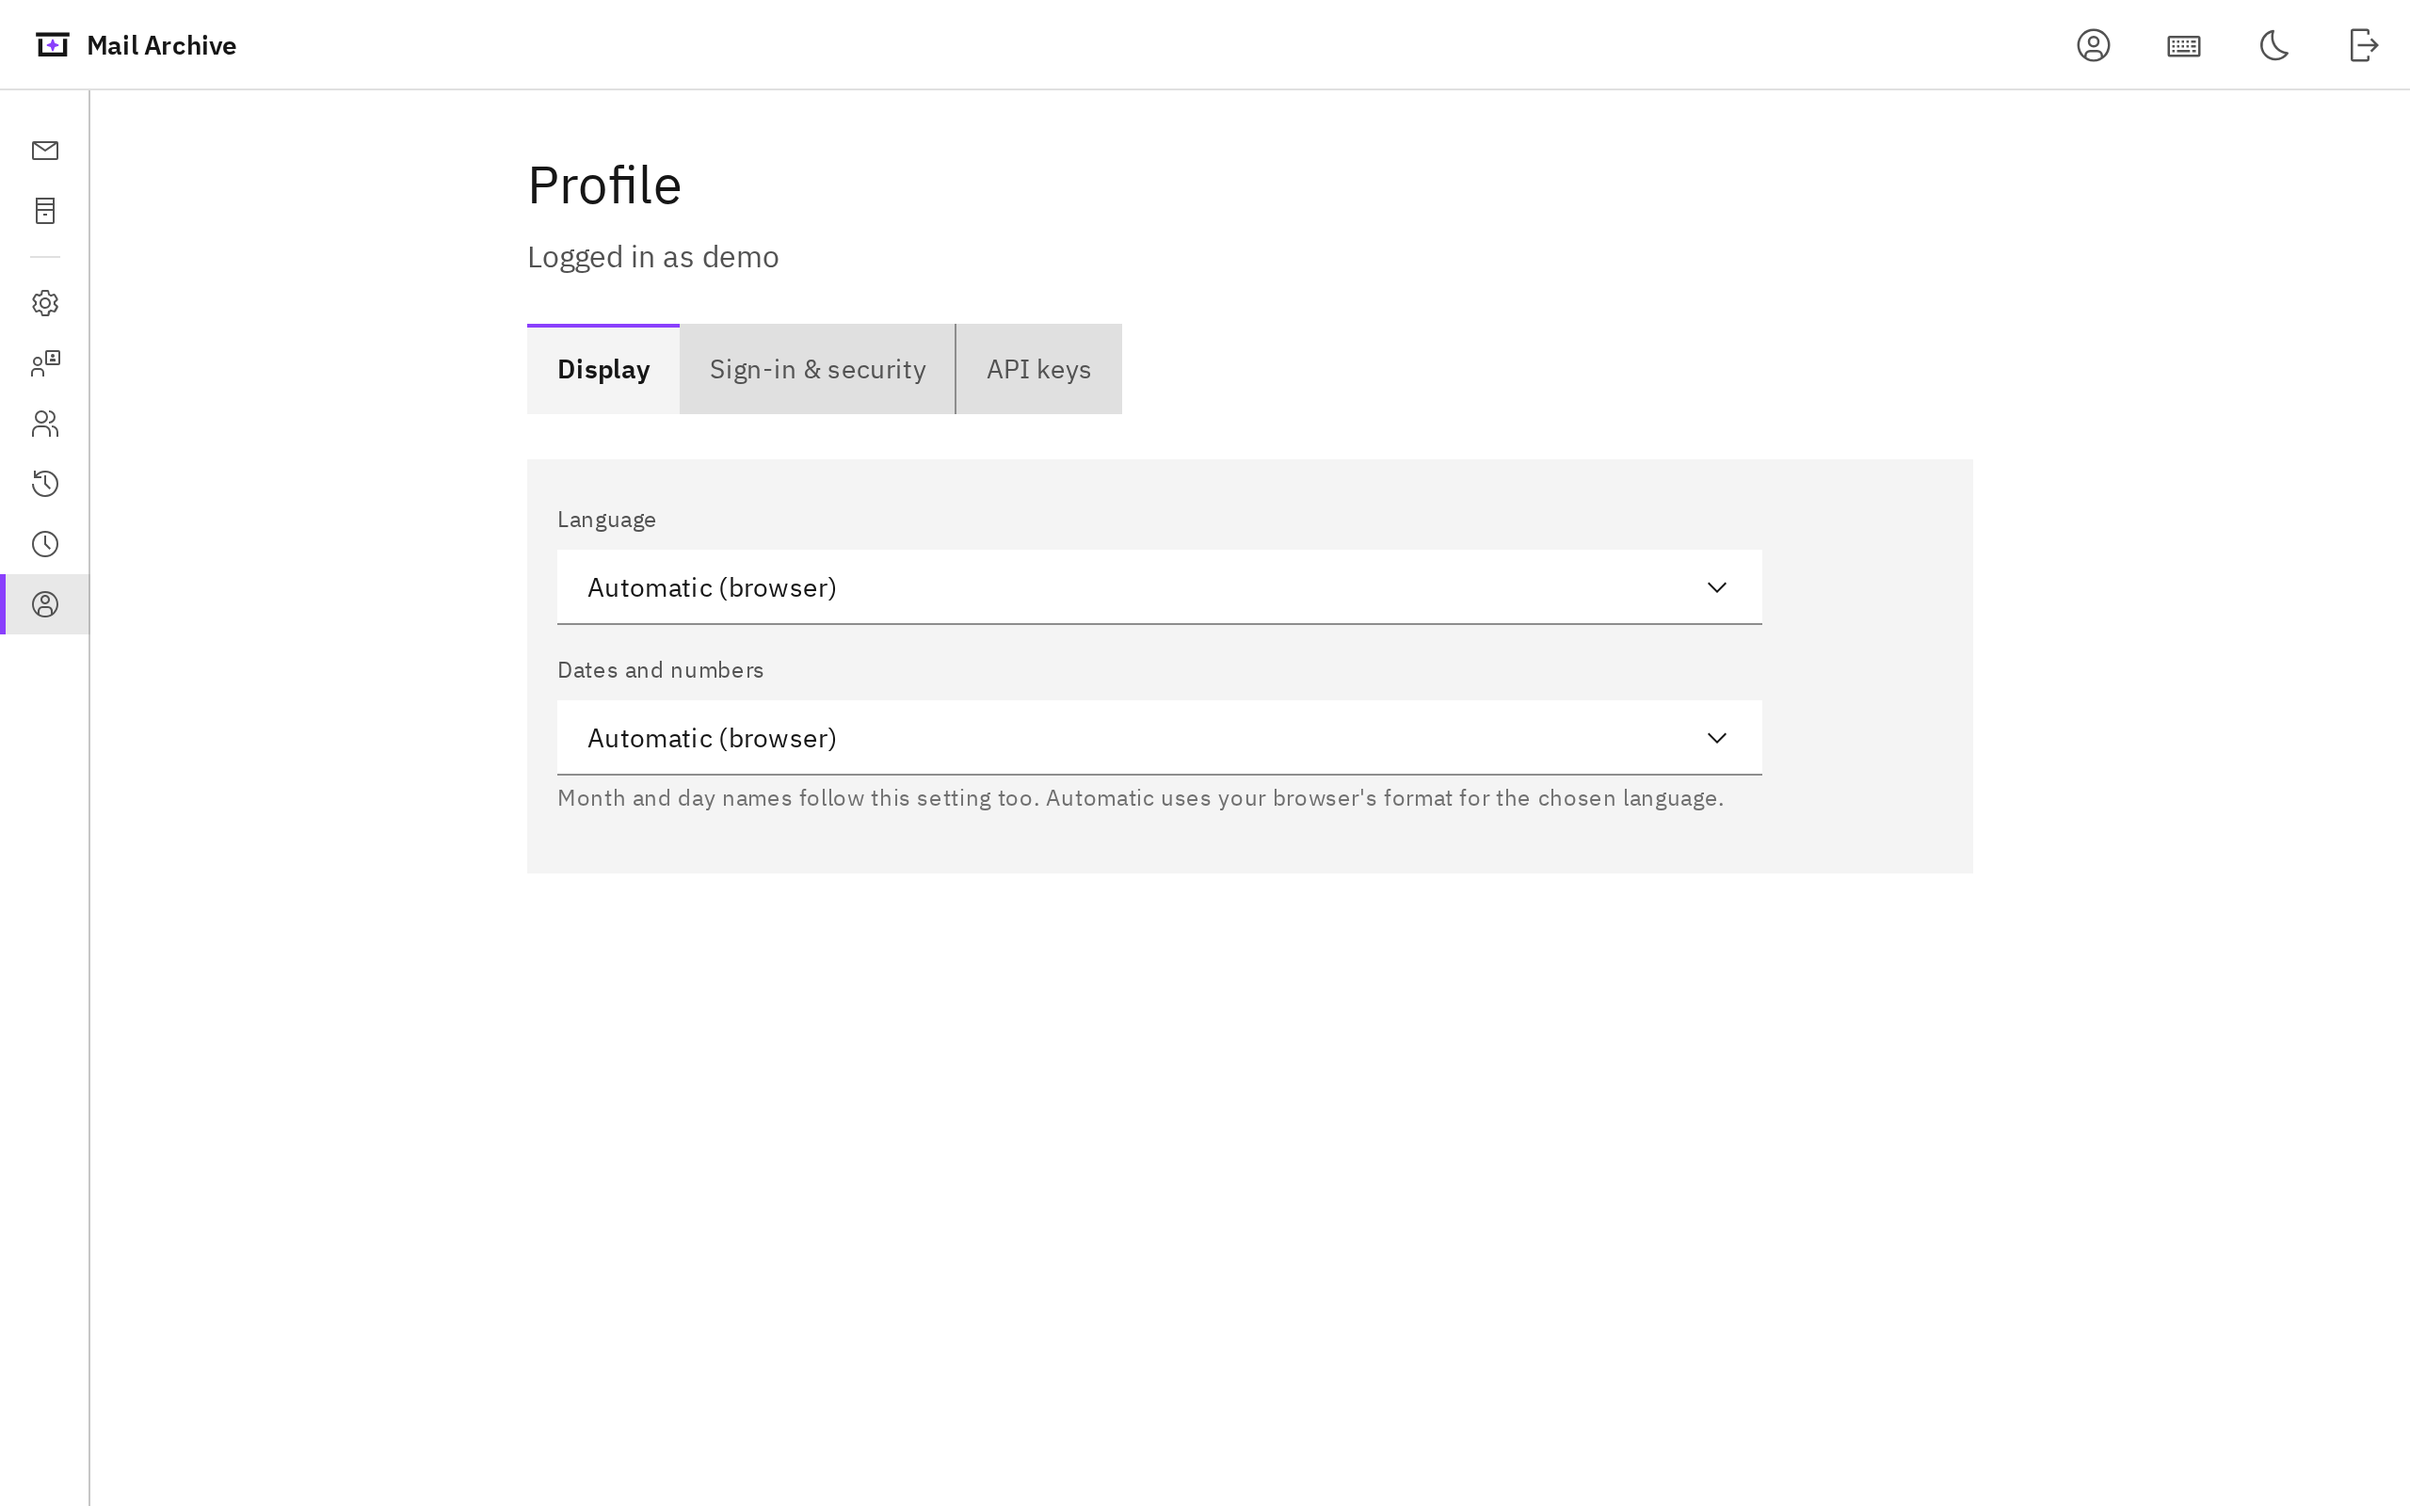
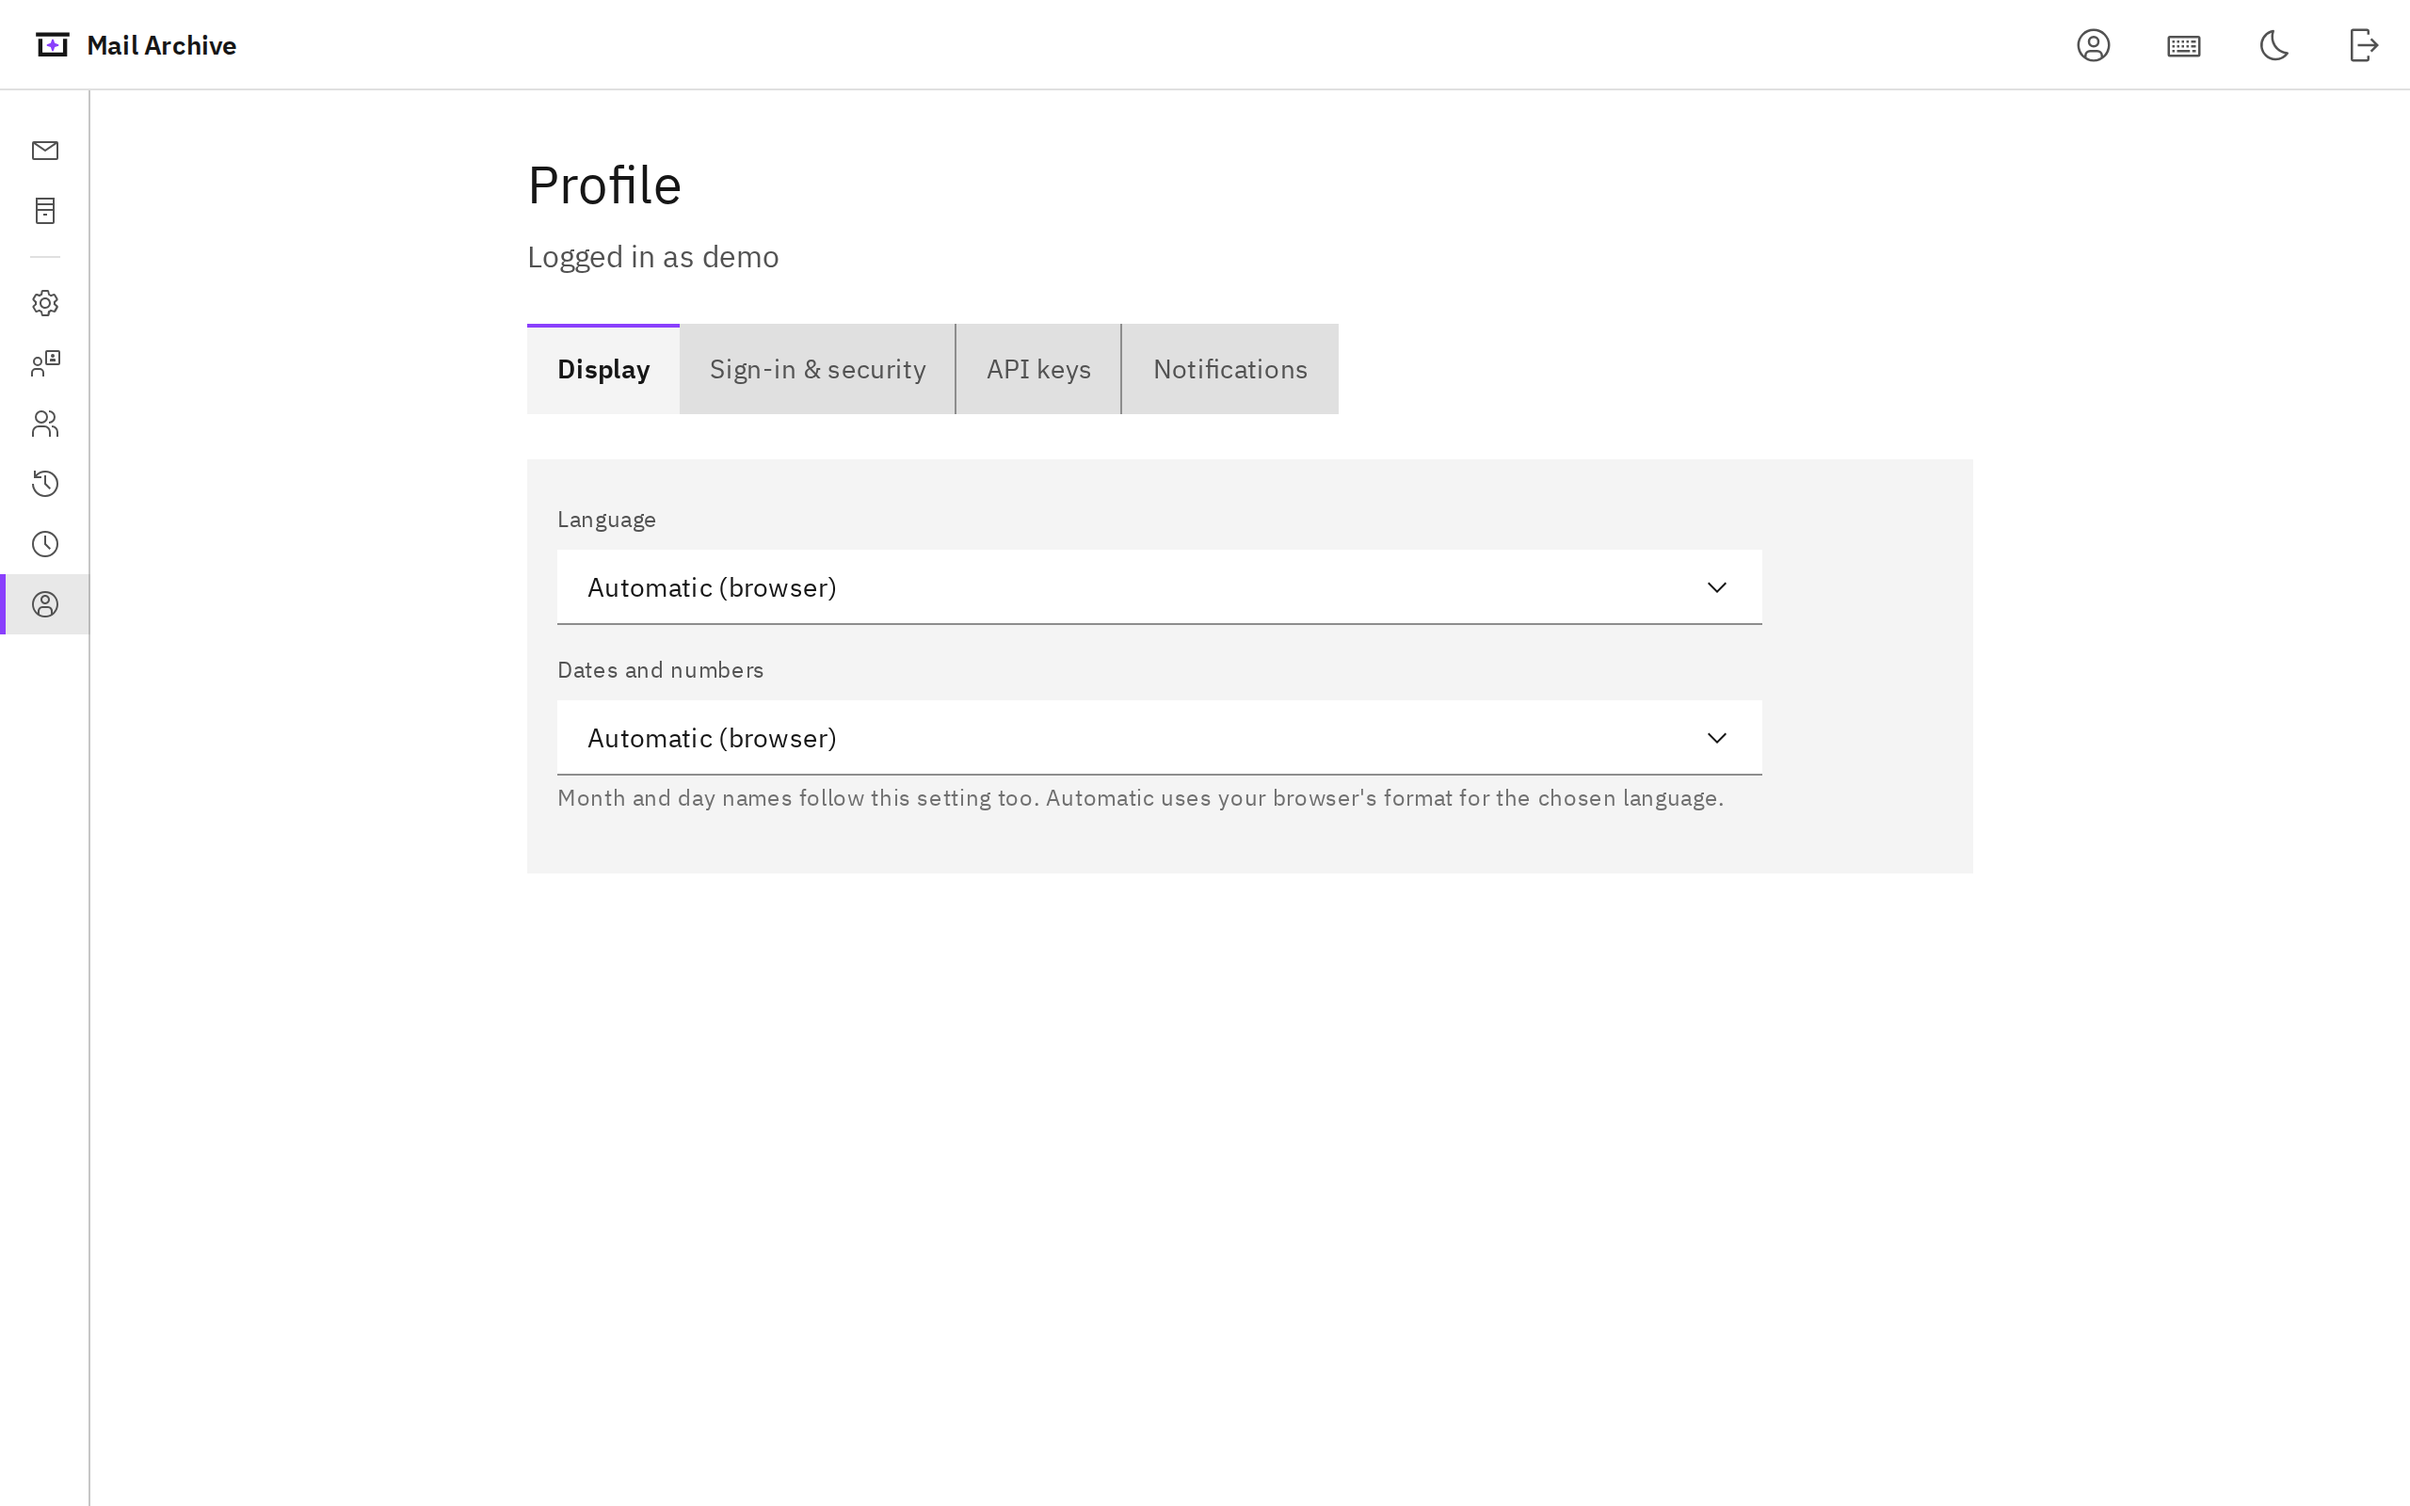
Docs screenshots for alert mail: Notifications tab (#450)
New profile-notifications.png, embedded in email-alerts.md; profile.png,
profile-security.png and profile-api-keys.png show the new tab. Made with
make docs-screenshots in a Linux container; the other images differed only
by font rendering and are kept as they were.

Changed region(s): [[0.4375, 0.1875, 0.5625, 0.2812]]

diff --git a/docs/guide/email-alerts.md b/docs/guide/email-alerts.md
@@ -54,6 +54,8 @@ code. **Remove address** stops alert mail to you. Setting, confirming and
 removing the address are written to the [audit log](./audit-log), without
 the address.
 
+![Profile page, tab Notifications with a confirmed address](/screenshots/profile-notifications.png)
+
 If the relay refuses your address as unknown (a reply `5.1.x`), it is
 marked unconfirmed: a banner above the mail and the tab say so, and the
 address gets no alert mail until you confirm it again. Other refusals of
